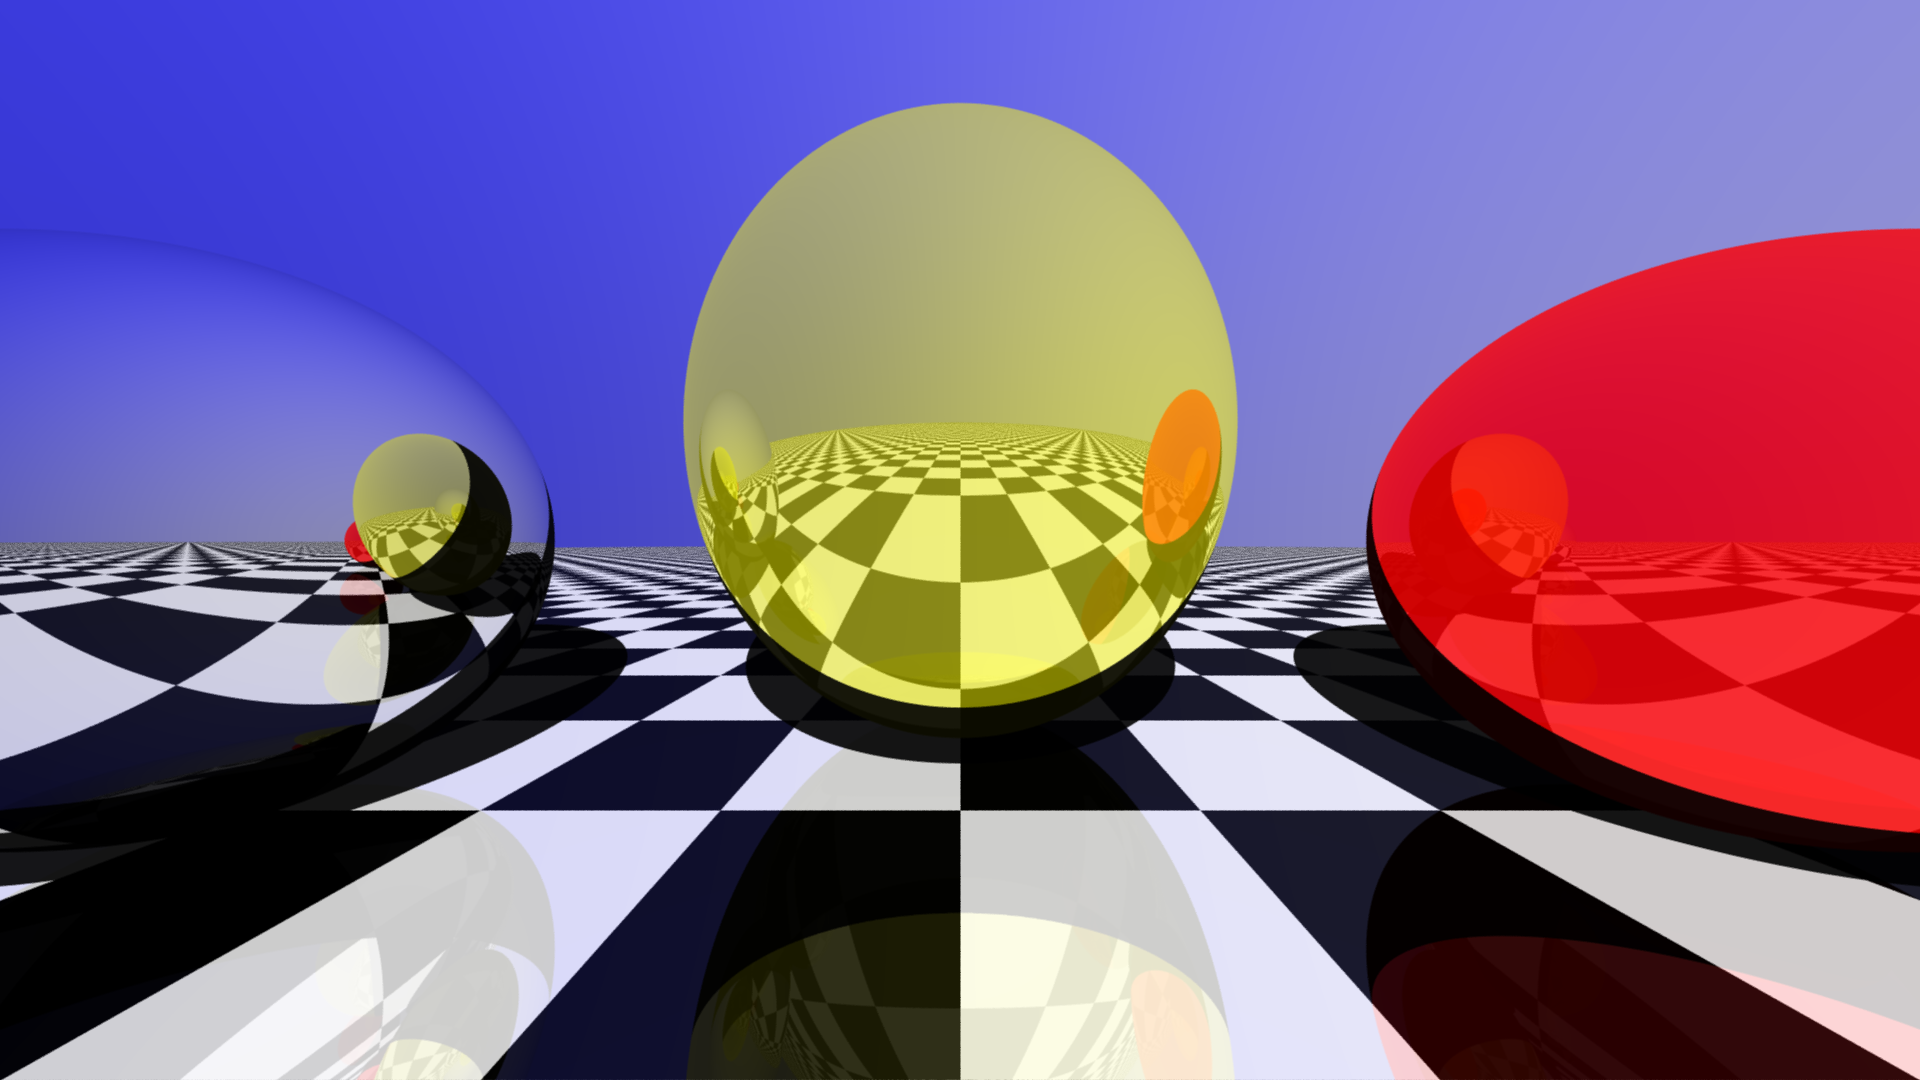
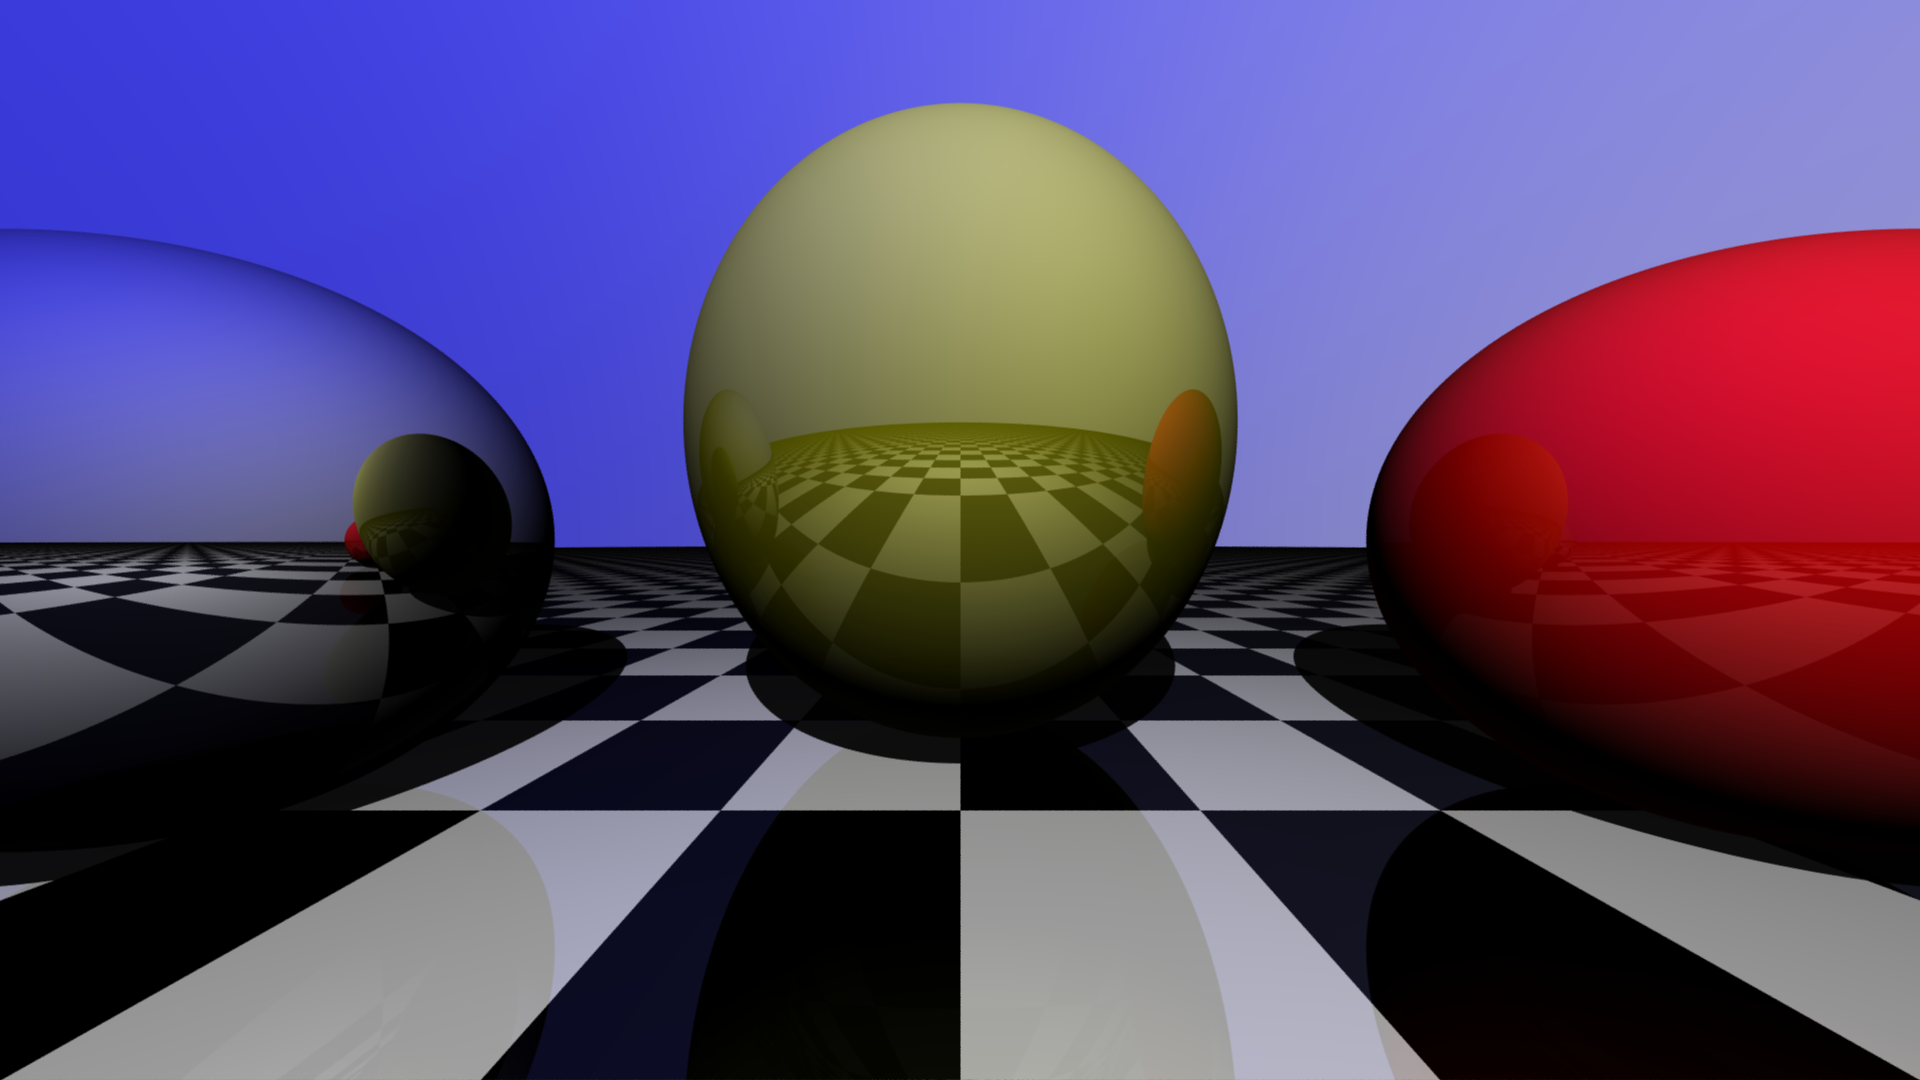
Phong lighting

diff --git a/src/raytracer/scene.rs b/src/raytracer/scene.rs
@@ -72,10 +72,10 @@ impl Scene {
 
                 let reflection_factor = object.get_reflection_factor();
                 let inverse_reflection_factor = object.get_inverse_reflection_factor();
+                closest_normal.normalize();
 
                 let (mut r, mut g, mut b): (f32, f32, f32);
                 if reflection_factor > 0.001 {
-                    closest_normal.normalize();
                     let reflection = reflect(&-ray.direction(), &closest_normal);
 
                     let mut final_color_r = o_r * inverse_reflection_factor;
@@ -114,10 +114,15 @@ impl Scene {
                             max_iter - 1,
                         );
 
+                        let phong = Vec3::dot_product(&direction, &closest_normal).abs();
+                        r *= phong;
+                        g *= phong;
+                        b *= phong;
+
                         if dist < length {
-                            r /= 10.0;
-                            g /= 10.0;
-                            b /= 10.0;
+                            r *= 0.1;
+                            g *= 0.1;
+                            b *= 0.1;
                         }
                     }
                 }

diff --git a/src/main.rs b/src/main.rs
@@ -6,7 +6,7 @@ extern crate png;
 extern crate rand;
 extern crate rayon;
 
-use minifb::{Key, Scale, Window, WindowOptions};
+use minifb::{Key, Window, WindowOptions};
 use std::fs::File;
 use std::io::BufWriter;
 use std::path::Path;
